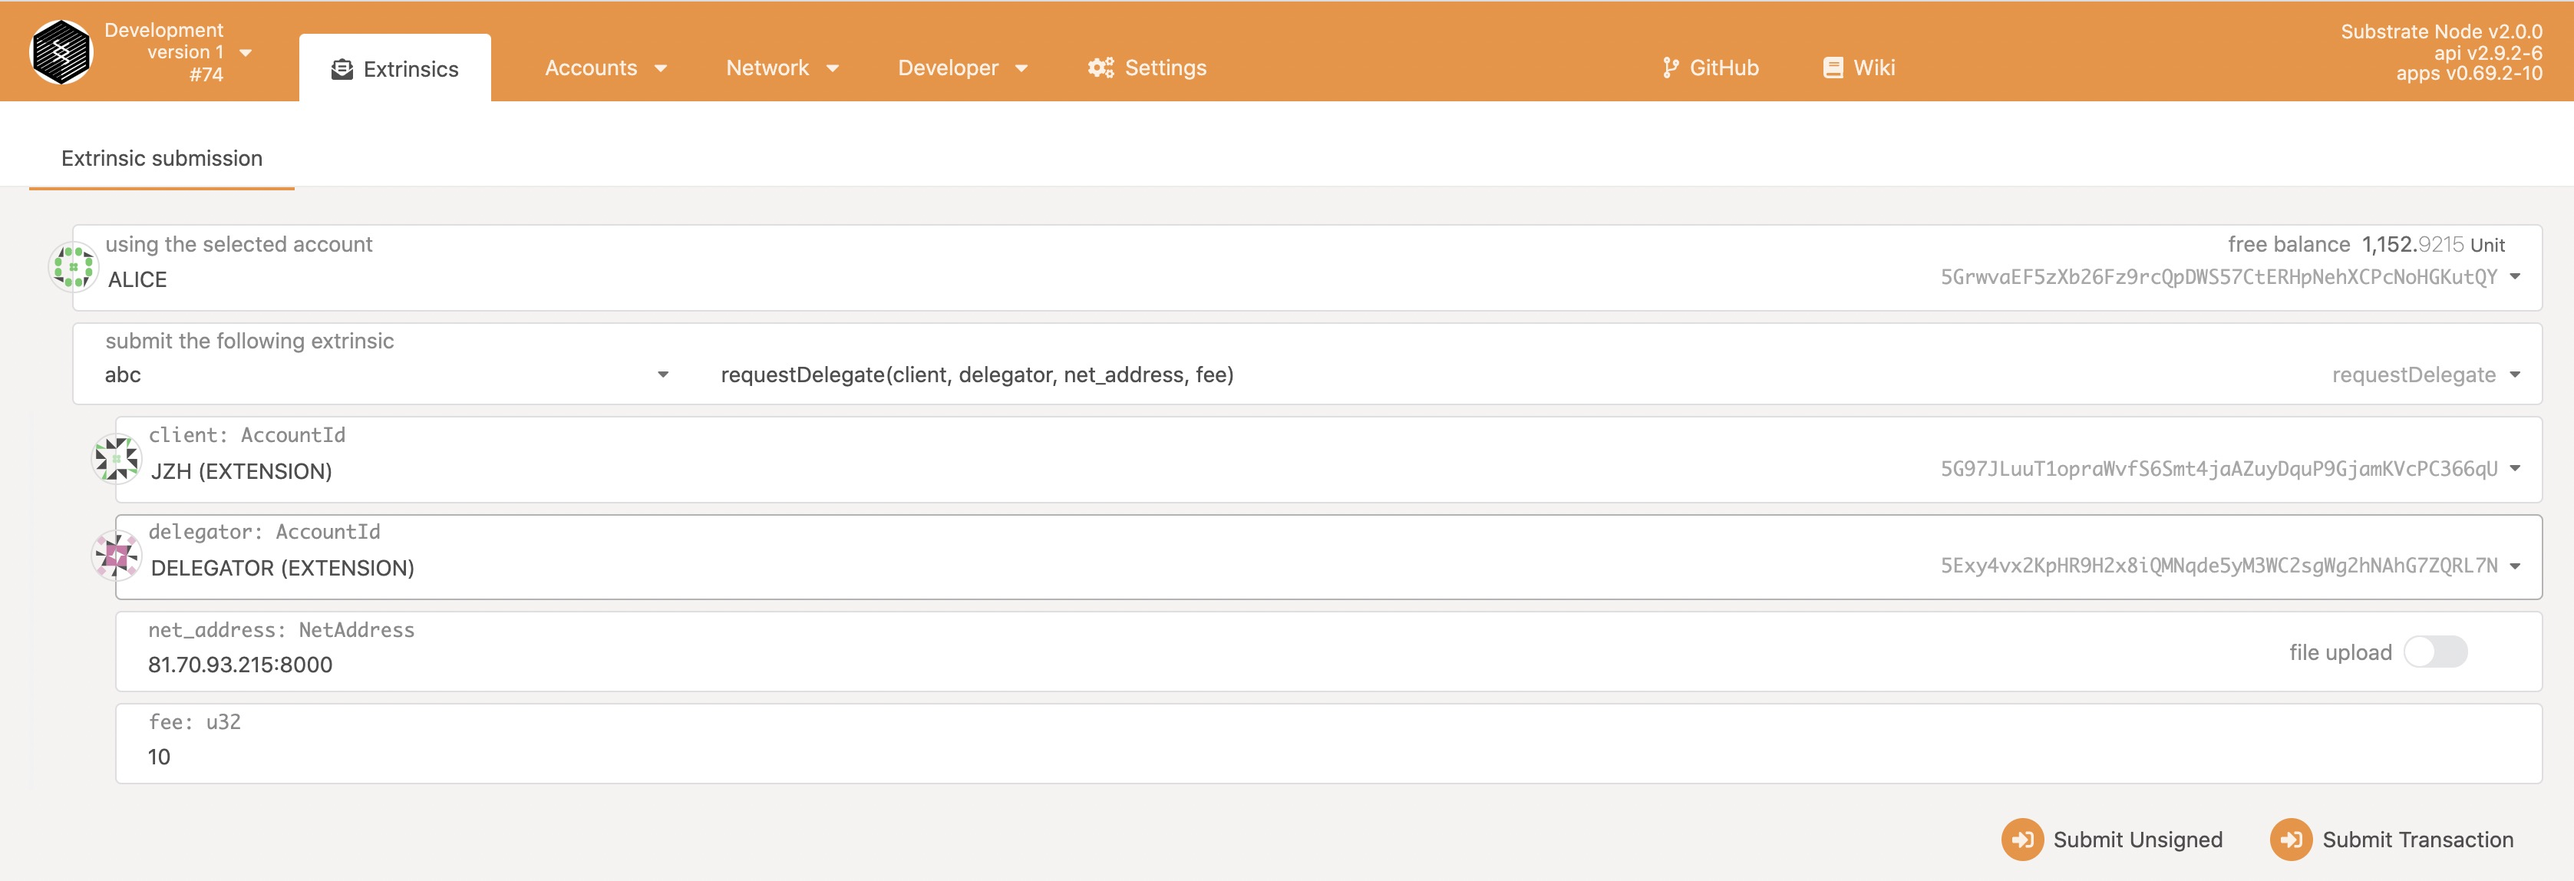
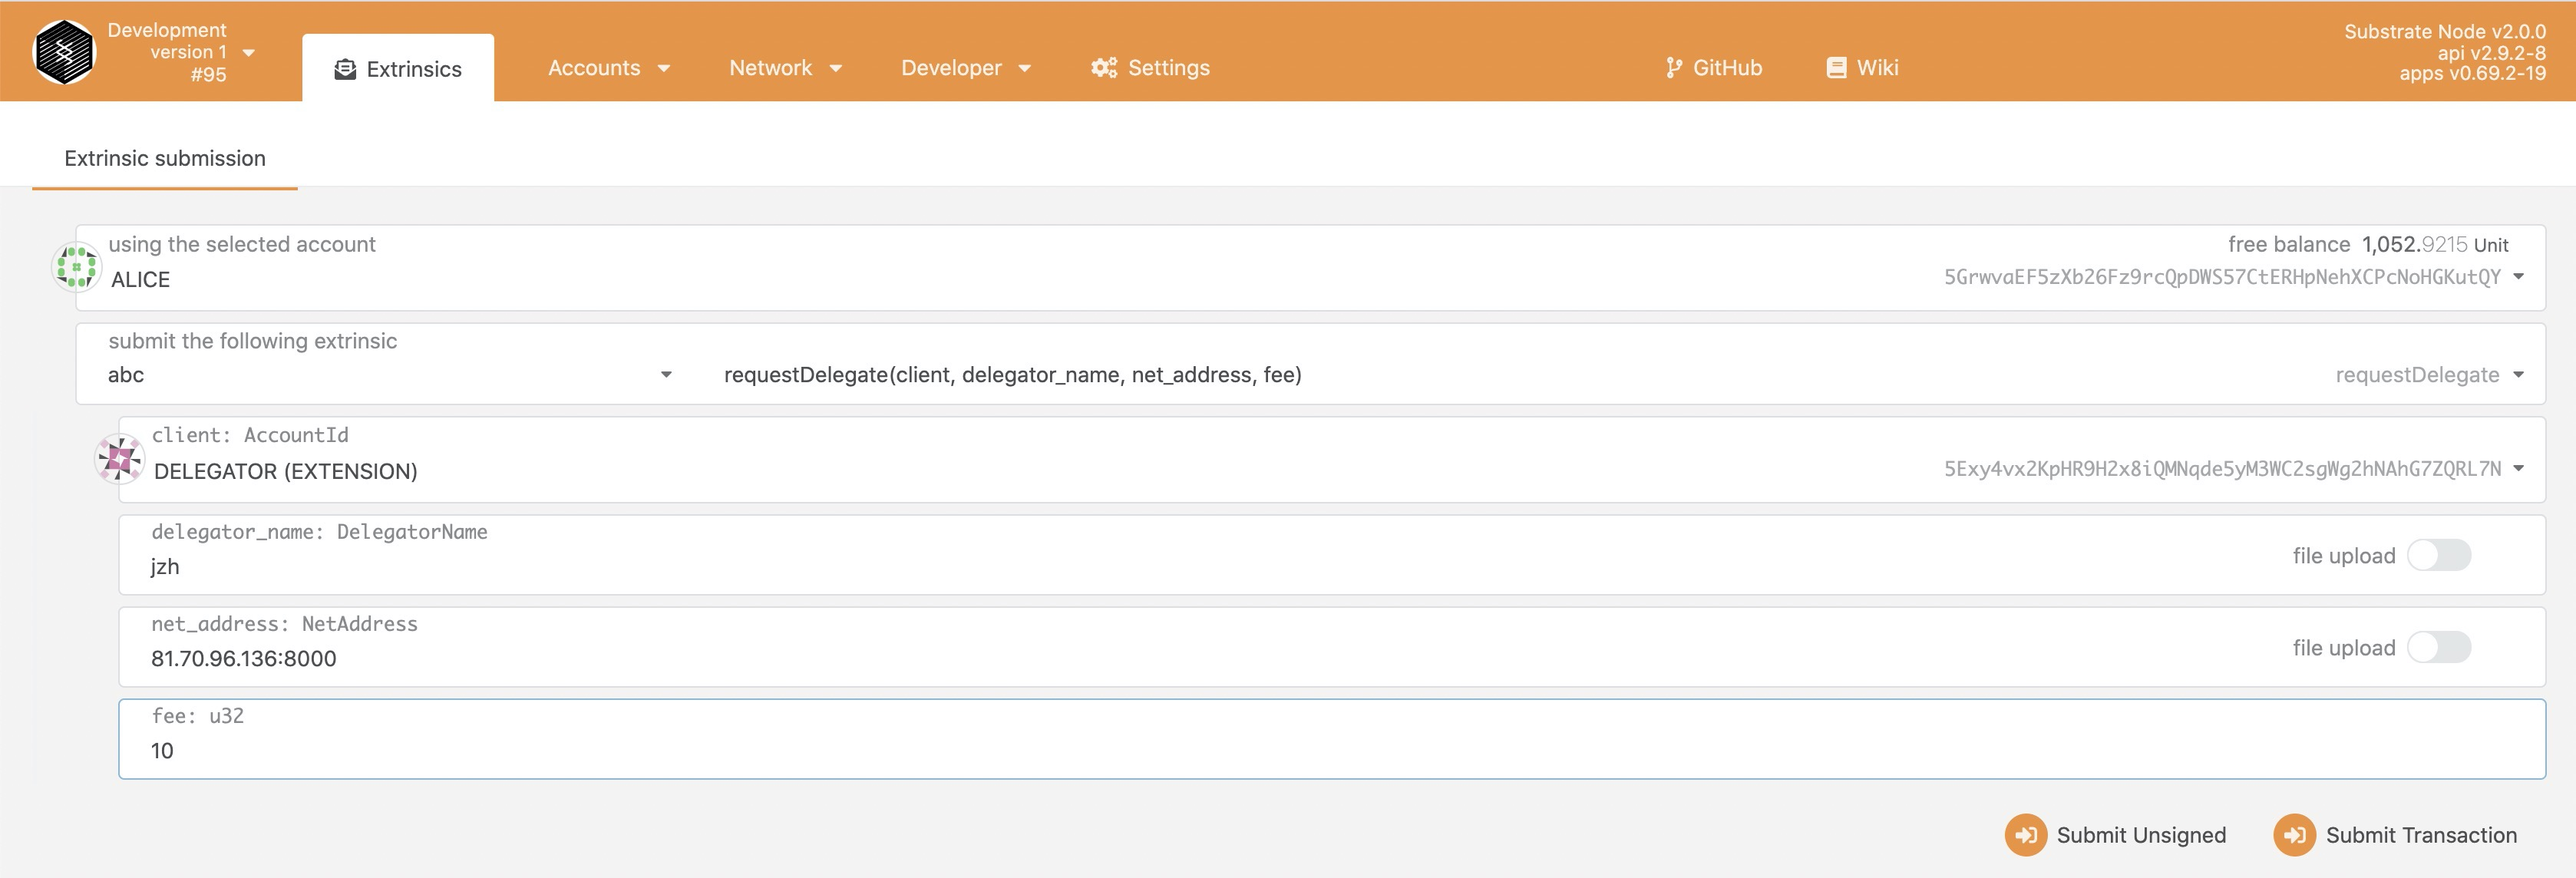
request-delegate and begin-task with delegator name

diff --git a/Try_the_demo/Run_task_on_other_blockchain_sequence.md b/Try_the_demo/Run_task_on_other_blockchain_sequence.md
@@ -18,13 +18,26 @@ end box
 
 client->alice: request delegate
 note right
-request_delegate(sender, client, delegator, net_address, fee)
+request_delegate(sender, client, delegator_name, net_address, fee)
+the client need to be an account of tea-layer1, and if reques_delegate finished,
+the client will act as an agent of substrate-demo.
 record client information to chain
    insert into ClientsApplys(block_number, vec[(client, sender])
    insert into Clients(client, false)
    insert into ClientSender(client, sender)
-   insert into ClientDelegator(client, delegator)
-   insert into ClientFee(empolyer, fee)
+   insert into ClientDelegatorFee(client, fee)
+   insert into ClientNetAddress(clientt, 
+   insert into Delegates(delegator_name, clent)
+end note
+
+...
+
+alice-[#blue]>alice: <OffChainWorker> apply delegate
+rnote right
+apply_delegates(block_number)
+ update_delegate_status(client, updater)
+ need updater sign 
+ insert into Clients(client, true)
 end note
 
 alice-->layer1Alice: request delegate
@@ -45,19 +58,9 @@ save_delegate_info
  save into local storate
 end note
 
-...
-
-alice-[#blue]>alice: <OffChainWorker> apply delegate
-rnote right
-apply_delegates(block_number)
- update_delegate_status(client, updater)
- need updater sign 
- insert into Clients(client, true)
-end note
-
 client->alice: begin task
 note right
-begin_task(sender, client, description_cid, fee)
+begin_task(sender, client, delegator_name, description_cid, fee)
  insert into Tasks(block_number, vec[TaskInfo])
  insert into ClientTaskFee(client, fee)
 end note
